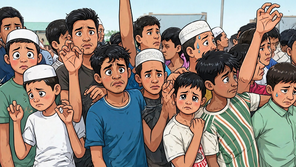
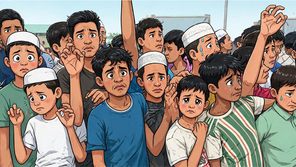
Leads swapped to Bos's 1/2/3.png: summit, ICJ crowd, market chart as embedded PNG

diff --git a/main.py b/main.py
@@ -7,10 +7,10 @@ summing up the world news of Thursday 19 November 2026: 36 stories
 a world map with numbered pins, a calendar page in the masthead, a
 four-number stat strip, a DATE CHECK box and a source footer. No network, no Pillow, deterministic output.
 
-The summit portrait (summit.png, 380x214) and the World Court
-portrait (icj.png, 296x167) are cartoon reference images held in the
-repo and decoded at run time; every other picture and the map are
-drawn in code. All three lead illustrations are 16:9.
+The three lead illustrations (summit.png, 380x214; icj.png, 296x167;
+market.png, 276x155) are reference images Bos chose, held in the repo
+and decoded at run time; every other picture and the map are drawn in
+code. All three lead illustrations are 16:9.
 
 Every headline was re-verified against reports dated 19 November 2026
 before it was drawn; three stories that broke on Wednesday 18 November
@@ -764,33 +764,21 @@ def art_summit(cv, x, y, w, h):
                      align="center")
 
 
+_MARKET_PHOTO = [None]
+
+
 def art_market(cv, x, y, w, h):
-    """A sell-off chart: red candles stepping down, volume building
-    toward the climax, and the navy trend line falling away."""
-    cv.fill_rect(x, y, w, h, PAPER)
-    for gy in range(y + 18, y + h - 14, 22):
-        cv.hline(x + 10, x + w - 10, gy, LGREY)
-    # candlesticks stepping down, all red, with wicks
-    tops = [16, 26, 22, 36, 30, 46, 42, 56, 62]
-    heights = [22, 26, 20, 28, 24, 30, 26, 32, 28]
-    closes = []
-    for i, (t, bh) in enumerate(zip(tops, heights)):
-        cx0 = x + 14 + i * 28
-        col = RED2 if i % 2 == 0 else RED
-        cv.fill_rect(cx0, y + t, 14, bh, col)
-        cv.vline(cx0 + 7, y + t - 6, y + t + bh + 8, col, 2)
-        closes.append((cx0 + 7, y + t + bh))
-    # falling trend line through the closes, running off down-right
-    pts = closes + [(x + w - 8, y + 130)]
-    for a, b in zip(pts, pts[1:]):
-        cv.line(a[0], a[1], b[0], b[1], NAVY, 3)
-    ex, ey = pts[-1]
-    cv.fill_poly([(ex, ey), (ex - 4, ey - 13), (ex - 13, ey - 4)], NAVY)
-    # volume bars building toward the sell-off climax
-    vols = [8, 10, 9, 14, 12, 16, 15, 20, 24]
-    for i, v in enumerate(vols):
-        cv.fill_rect(x + 14 + i * 28, y + 146 - v, 14, v, (205, 130, 130))
-    cv.hline(x + 10, x + w - 10, y + 148, MGREY, 1)
+    """The Wall Street lead chart Bos chose: red candles stepping down
+    with the navy trend line falling away, held in the repo as
+    market.png (276x155) and decoded at run time."""
+    if _MARKET_PHOTO[0] is None:
+        here = os.path.dirname(os.path.abspath(__file__))
+        _MARKET_PHOTO[0] = read_png_rgb(os.path.join(here, "market.png"))
+    iw, ih, rgb = _MARKET_PHOTO[0]
+    if (iw, ih) != (w, h):
+        raise ValueError("market.png is %dx%d, expected %dx%d"
+                         % (iw, ih, w, h))
+    cv.blit(x, y, iw, ih, rgb)
 
 
 def icon_bridge(cv, x, y, s):
@@ -1085,8 +1073,8 @@ DATE_CHECK = ("DATE CHECK — Left out on purpose: the EU's €45bn Ukraine "
               "on this page is dated Thursday 19 November 2026.")
 
 FOOTER = ("Sources: Reuters, CNN, WSJ, USA Today, AP, UN News, ReliefWeb, "
-          "OneTurn, Dow Jones/Morningstar. Summit and World Court portraits "
-          "are cartoon reference images; the rest is drawn in code.")
+          "OneTurn, Dow Jones/Morningstar. Summit, World Court and market "
+          "illustrations are reference images; the rest is drawn in code.")
 FOOTER2 = ("Contested claims are attributed. Figures as reported on "
            "Thursday 19 November 2026.")
 
